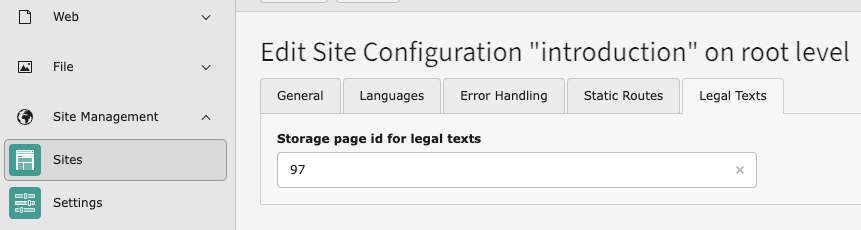
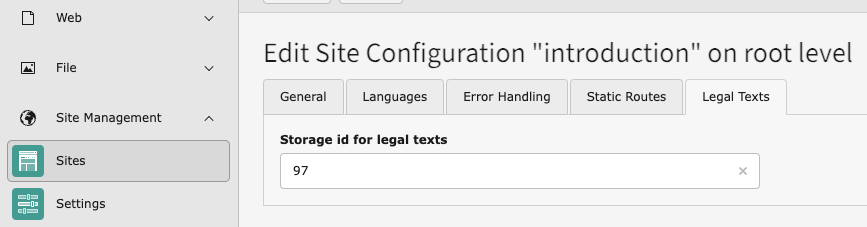
Release v3.0.1 - Fix typos

diff --git a/Resources/Private/Templates/LegalText/Show.html b/Resources/Private/Templates/LegalText/Show.html
@@ -15,7 +15,7 @@
             <f:if condition="{settings.showPdfLink} && {legalText.publicPdfUrl}">
                 <div class="legalText-pdf-link">
                     <a href="{legalText.publicPdfUrl}" download>
-                        <f:translate key="tx_itkanzlei_flexform.downlad_pdf_{legalText.type}"/>
+                        <f:translate key="tx_itkanzlei_flexform.download_pdf_{legalText.type}"/>
                     </a>
                 </div>
             </f:if>

diff --git a/ext_emconf.php b/ext_emconf.php
@@ -1,6 +1,6 @@
 <?php
 
-$EM_CONF[\ItRechtKanzlei\LegalText\Plugin\Typo3\Service\LegalTextConfigurationService::EXTENSION_KEY] = [
+$EM_CONF['itrk_legaltexts_typo3'] = [
     'title' => 'IT-Recht Kanzlei - Legal Texts',
     'description' => 'A TYPO3 extension that integrates legally compliant documents, such as terms and conditions or privacy policies, directly into your TYPO3 site from the IT-Recht Kanzlei service. This extension requires an active IT-Recht Kanzlei subscription to receive the latest legal texts automatically pushed and updated within TYPO3.',
     'category' => 'plugin',
@@ -11,7 +11,7 @@ $EM_CONF[\ItRechtKanzlei\LegalText\Plugin\Typo3\Service\LegalTextConfigurationSe
     'uploadfolder' => '1',
     'createDirs' => '',
     'clearCacheOnLoad' => 0,
-    'version' => '3.0.0',
+    'version' => '3.0.1',
     'constraints' => [
         'depends' => [
             'php' => '7.4.0-8.4.99',

diff --git a/README.md b/README.md
@@ -16,27 +16,29 @@ The texts are provided through IT-Recht Kanzlei. An active subscription is requi
 
 In the Extension Configuration, the API credentials must be configured.
 
-| Name              | Key             | Description                                     |
-|-------------------|-----------------|-------------------------------------------------|
-| **API Username**  | api.username    | [String] _custom selected username for the API_ |
-| **API Password**  | api.password    | [String] _custom selected password for the API_ |
-| **Upload Folder** | fileStoragePath | [String] _Storage path for the pdfs_            |
+Please choose a secure password that has never been used before.
 
-Open the Extension configuration
+| Name              | Key             | Description                                  |
+|-------------------|-----------------|----------------------------------------------|
+| **API Username**  | api.username    | [String] _Self-defined username for the API_ |
+| **API Password**  | api.password    | [String] _Self-defined password for the API_ |
+| **Upload Folder** | fileStoragePath | [String] _Storage path for the pdfs_         |
+
+Open the Extension Configuration
 
 ![Screenshot of the Extension Configuration](Resources/Private/Documentation/extensionConfiguration1.png)
 
-Configure api username and password
+Configure the API Username and Password
 
 ![Screenshot of the Extension Configuration](Resources/Private/Documentation/extensionConfiguration2.png)
 
-### Legal texts storage page id
+### Legal texts storage id
 
 For each site configuration, a dedicated folder must be configured where the legal texts will be stored.
 
-| Name                           | Key                  | Description                                     |
-|--------------------------------|----------------------|-------------------------------------------------|
-| **Legal Text Storage Page Id** | itrkLegalTextStorage | [String] _custom-selected username for the API_ |
+| Name                       | Key                  | Description                           |
+|----------------------------|----------------------|---------------------------------------|
+| **Legal Text Storage Id**  | itrkLegalTextStorage | [String] _Storage id for legal texts_ |
 
 ![Screenshot of the Site Configuration](Resources/Private/Documentation/siteConfiguration.png)
 
@@ -44,10 +46,10 @@ For each site configuration, a dedicated folder must be configured where the leg
 
 ### Plugin
 
-Place the *Legal Text* plugin on the desired page and configure which document type should be displayed. You can also
-choose to display the text as plain text, HTML, and/or a PDF link.
+Place the *Legal Text* plugin on the desired page and configure which document type should be displayed. You can
+choose to display the legal text as plain text, HTML, and/or a PDF link.
 
-![Screenshot of plugin select](Resources/Private/Documentation/plugin.png)
+![Screenshot of plugin selection](Resources/Private/Documentation/plugin.png)
 
 There is an option to select the language directly in the plugin. This can be used if there is no legal text available
 in the desired language or as a workaround for TYPO3 v10/v11 when a legal text exists without a default language version.
@@ -55,6 +57,6 @@ By default, nothing needs to be selected here.
 
 ### API
 
-In the IT-Recht Kanzlei client portal, configure a new interface and enter your shop URL, along with the username and
-password that you set in the extension configuration.
+In the IT-Recht Kanzlei client portal, configure a new interface and enter your shop URL, along with the API username and
+password that you set in the Extension Configuration.
 
